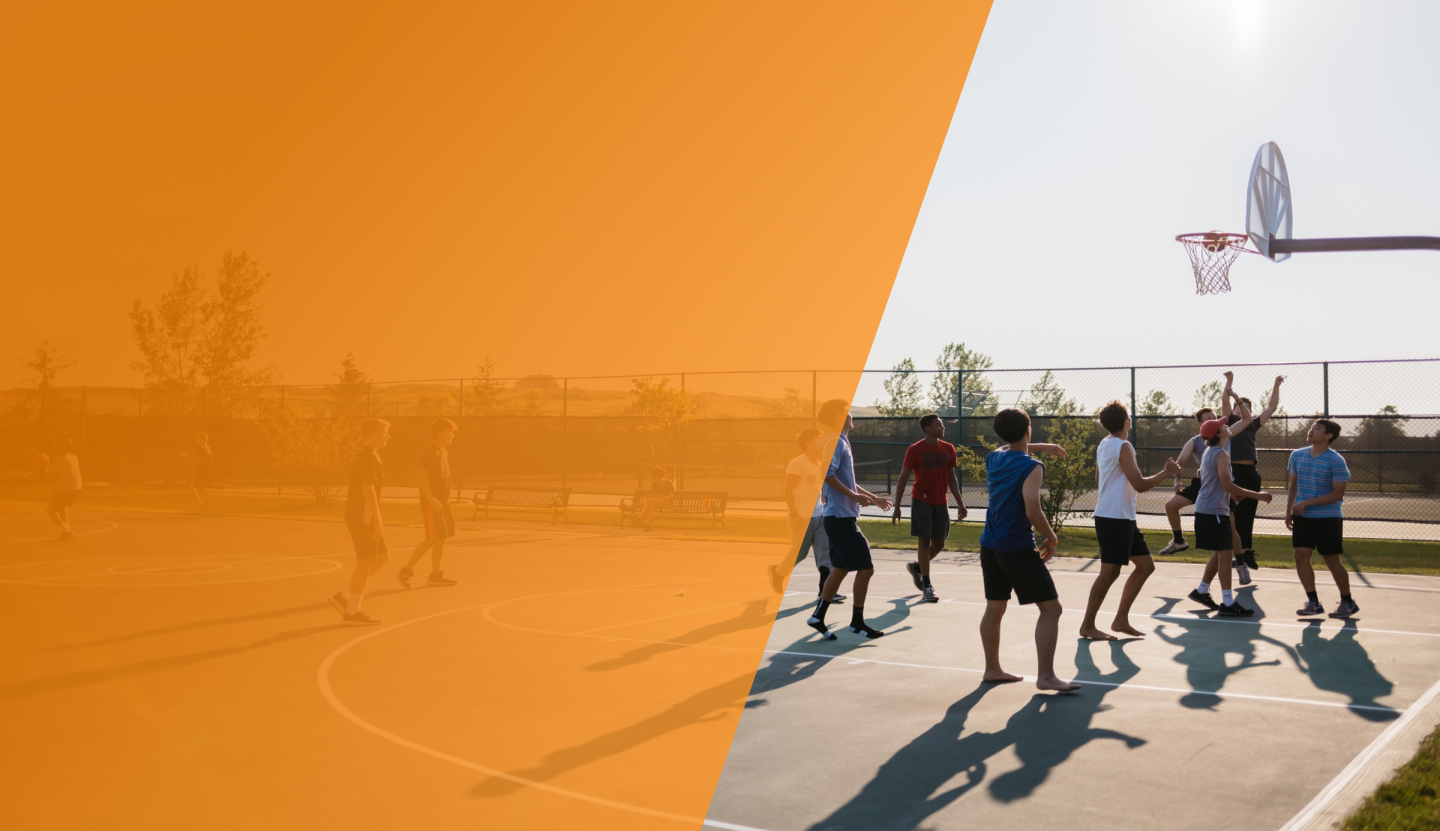
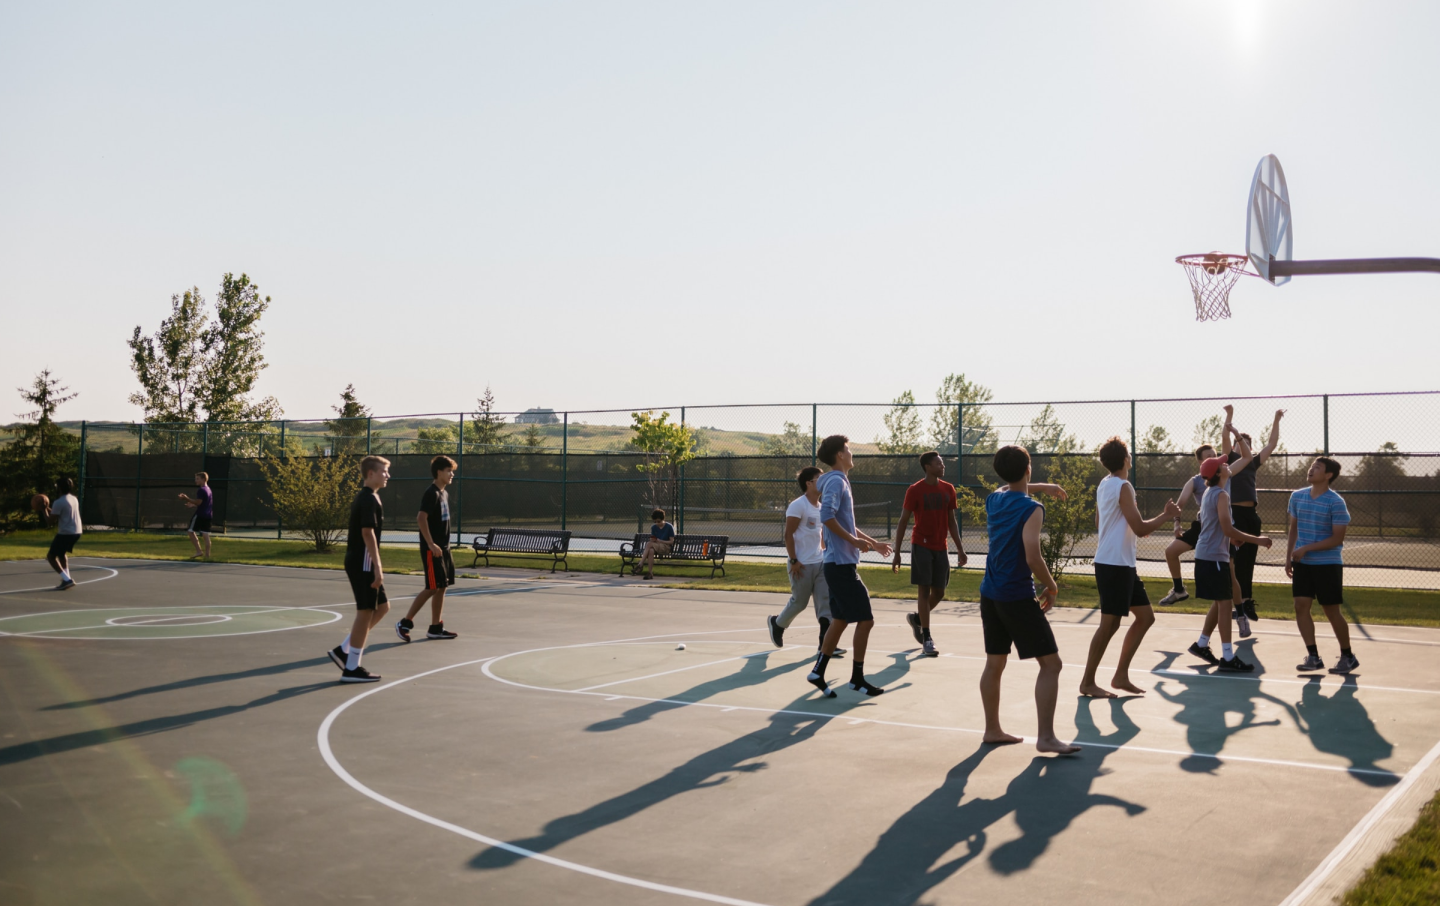
version update 2

diff --git a/src/assets/styles/style.scss b/src/assets/styles/style.scss
@@ -83,6 +83,22 @@
             line-height: 157.5%;
             color: #FFFFFF;
         }
+        .home-banner-overlay {
+            background: linear-gradient(305.75deg, #DB7200 22.29%, rgba(255, 148, 32, 0.87) 71.25%);
+            position: absolute;
+            top: 0;
+            bottom: 0;
+            left: 0;
+            right: 0;
+            opacity: 0.9;
+            clip-path: polygon(0 0, 69% 0%, 51% 100%, 0% 100%);
+            @media(max-width: 767px) {
+                clip-path: none;
+            }
+            }
+        .text-white.text-md-start.text-center {
+            z-index: 999999;
+        }
     }
     .slick-slider {
         margin-top: -100px;
@@ -108,7 +124,7 @@
             }
             &:before {
                 content:'';
-                background-image: url(../images/slider/left-arrow.png); 
+                background-image: url(../images/slider/left-arrow.svg); 
                 height: 50px;
                 width: 50px; 
                 position: absolute;
@@ -135,7 +151,7 @@
             }
             &:before {
                 content:'';
-                background-image: url(../images/slider/right-arrow.png); 
+                background-image: url(../images/slider/right-arrow.svg); 
                 height: 50px;
                 width: 50px; 
                 position: absolute;

diff --git a/src/components/slider.js b/src/components/slider.js
@@ -3,7 +3,7 @@ import Slider from "react-slick";
 import "slick-carousel/slick/slick.css";
 import "slick-carousel/slick/slick-theme.css";
 import Card from 'react-bootstrap/Card';
-import cardsDefaultImage from '../assets/images/slider/Vector.png'
+import cardsDefaultImage from '../assets/images/slider/Vector.svg'
 import playersImage from '../assets/images/slider/players-cards.png'
 
 export default function SlickSlider() {

diff --git a/src/views/index.js b/src/views/index.js
@@ -7,7 +7,8 @@ export default function IndexPage() {
     tabTitle('Home')
     return (
         <>
-            <div className="homepage-banner">
+            <div className="homepage-banner position-relative">
+                <div className="home-banner-overlay"></div>
                 <Container>
                     <Row>
                         <Col md={12} lg={6} className="text-white text-md-start text-center">
